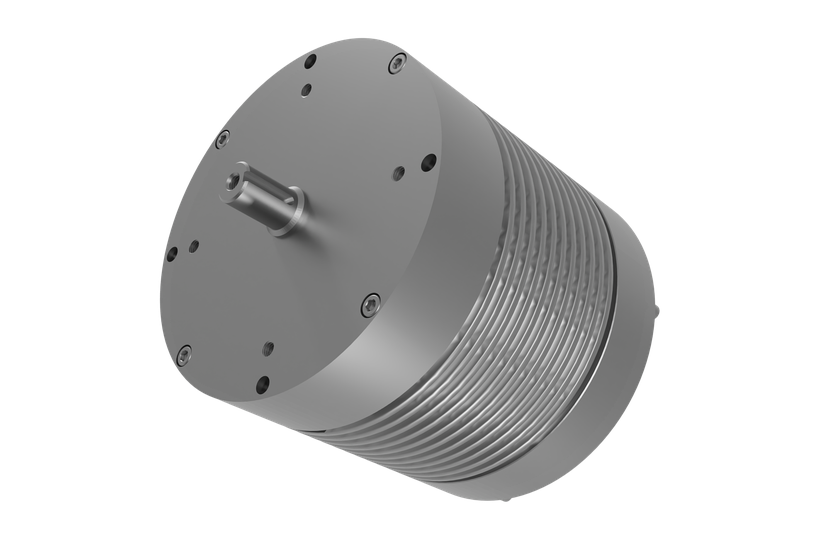
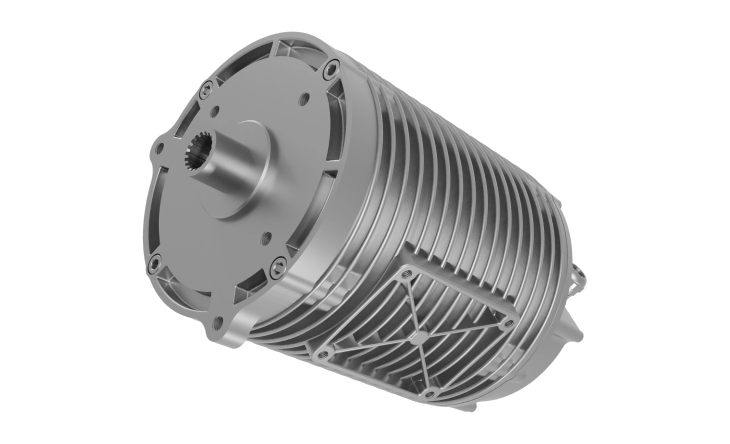
products: listing QA - RF66 card art, Series dropdown, titles, find-by-apps, copy
- RF 66 listing card now uses the finned-housing 'Final 1 2' render the artboard references
  (the listing differs from the detail page, which uses the squat render - logged for Tushar).
- Series filter: added the 'Series' dropdown top-right with the RF/AF/PT radios on the row below
  it (was radios only, on the heading row).
- Card titles match the listing artboard: 'Antarix AF58' and 'PT 500' via a per-family cardName
  (detail pages keep 'Antarix AF 58' / 'PT - 500') - spacing inconsistency logged for Tushar.
- Find By Applications: the selected app no longer repeats as a tile (it's only the big card), and
  the sweeper's Relevant Motors are ordered RF15/42 Steering, /Traction, RF22/42 Steering, /Traction.
- 'Need Help' body copy set to the Figma text via SpecForm's copy prop (component layout unchanged).

Changed region(s): [[0.1808, 0.0586, 0.8137, 0.9369], [0.3315, 0.2635, 0.3616, 0.2928]]

diff --git a/src/data/products/index.js b/src/data/products/index.js
@@ -40,8 +40,8 @@ export const productFamilies = [
   { slug: 'rf33', name: 'Antarix RF 33', series: 'RF', brand: 'Antarix', tagline: 'Compact | Efficient | Versatile', card: { image: L('card-standard.png') }, industries: ['cleaning', 'agriculture', '2-wheeler'], spec: { voltage: 72, power: 3.3, torque: 10.5 } },
   { slug: 'rf55', name: 'Antarix RF 55', series: 'RF', brand: 'Antarix', tagline: 'Compact | Efficient | Versatile', card: { image: L('card-standard.png') }, industries: ['2-wheeler', 'agriculture', '3-wheeler'], spec: { voltage: 72, power: 5.5, torque: 10.5 } },
   { slug: 'rf66', name: 'Antarix RF 66', series: 'RF', brand: 'Antarix', tagline: 'Compact | Efficient | Versatile', card: { image: L('card-rf66.png') }, industries: ['2-wheeler', 'agriculture', '3-wheeler'], spec: { voltage: 72, power: 14, torque: 16 } },
-  { slug: 'af58', name: 'Antarix AF 58', series: 'AF', brand: 'Antarix', tagline: 'Compact | Efficient | Versatile', card: { image: L('card-af58.png') }, industries: ['2-wheeler', '3-wheeler'], spec: { voltage: 72, power: 5.8, torque: 60 } },
-  { slug: 'pt500', name: 'PT - 500', series: 'PT', brand: 'PT', tagline: 'Compact | Efficient | Versatile', card: { image: L('card-pt500.png') }, industries: ['industrial-tools'], spec: { voltage: 18, power: 0.05, torque: 0.5 } },
+  { slug: 'af58', name: 'Antarix AF 58', cardName: 'Antarix AF58', series: 'AF', brand: 'Antarix', tagline: 'Compact | Efficient | Versatile', card: { image: L('card-af58.png') }, industries: ['2-wheeler', '3-wheeler'], spec: { voltage: 72, power: 5.8, torque: 60 } },
+  { slug: 'pt500', name: 'PT - 500', cardName: 'PT 500', series: 'PT', brand: 'PT', tagline: 'Compact | Efficient | Versatile', card: { image: L('card-pt500.png') }, industries: ['industrial-tools'], spec: { voltage: 18, power: 0.05, torque: 0.5 } },
 ]
 
 export const productBySlug = Object.fromEntries(productFamilies.map((f) => [f.slug, f]))

diff --git a/src/sections/products/MotorListing.jsx b/src/sections/products/MotorListing.jsx
@@ -111,6 +111,7 @@ function SeriesRadios({ value, onChange }) {
 
 export default function MotorListing() {
   const [series, setSeries] = useState(null)
+  const [seriesOpen, setSeriesOpen] = useState(true)
   const [ranges, setRanges] = useState(emptyRanges)
   const [checked, setChecked] = useState(() => new Set())
 
@@ -147,7 +148,21 @@ export default function MotorListing() {
         <FilterPanel ranges={ranges} setRanges={setRanges} checked={checked} toggleApp={toggleApp} clearAll={clearAll} />
 
         <div className="flex min-w-0 flex-1 flex-col items-stretch gap-24 xl:items-end">
-          <SeriesRadios value={series} onChange={setSeries} />
+          {/* Series dropdown (top-right) with the RF/AF/PT radios on the row below it, per the artboard. */}
+          <div className="flex w-full flex-col items-stretch gap-16 xl:items-end">
+            <button
+              type="button"
+              onClick={() => setSeriesOpen((o) => !o)}
+              aria-expanded={seriesOpen}
+              className="flex items-center justify-between gap-16 self-end rounded-[4px] border border-black/25 px-16 py-8 text-16 font-light xl:text-20"
+            >
+              Series
+              <svg viewBox="0 0 12 8" aria-hidden className={`w-12 transition-transform ${seriesOpen ? 'rotate-180' : ''}`}>
+                <path d="M1 1l5 5 5-5" fill="none" stroke="currentColor" strokeWidth="1.5" strokeLinecap="round" strokeLinejoin="round" />
+              </svg>
+            </button>
+            {seriesOpen && <SeriesRadios value={series} onChange={setSeries} />}
+          </div>
 
           {families.length ? (
             <div className="grid w-full grid-cols-1 gap-24 sm:grid-cols-2 xl:grid-cols-3 xl:gap-28">

diff --git a/src/sections/products/FindByApplications.jsx b/src/sections/products/FindByApplications.jsx
@@ -31,16 +31,14 @@ export default function FindByApplications() {
 
         {/* Thumbnails + relevant motors */}
         <div className="flex min-w-0 flex-1 flex-col gap-32 xl:gap-40">
+          {/* Tiles show the OTHER applications — the selected one appears only in the big card (per artboard). */}
           <div ref={track} className="no-scrollbar flex snap-x gap-16 overflow-x-auto pb-2 xl:gap-28">
-            {findByApplications.map((a, i) => (
+            {findByApplications.map((a, i) => ({ a, i })).filter(({ i }) => i !== active).map(({ a, i }) => (
               <button
                 key={a.key}
                 type="button"
                 onClick={() => setActive(i)}
-                aria-pressed={i === active}
-                className={`relative aspect-square w-150 shrink-0 snap-start overflow-hidden rounded-[4.8px] border bg-white transition-colors xl:w-240 ${
-                  i === active ? 'border-primary' : 'border-black/25 hover:border-primary/50'
-                }`}
+                className="relative aspect-square w-150 shrink-0 snap-start overflow-hidden rounded-[4.8px] border border-black/25 bg-white transition-colors hover:border-primary/50 xl:w-240"
               >
                 <img src={a.image} alt="" className="absolute inset-x-0 top-[14%] mx-auto h-[52%] object-contain" />
                 <span className="absolute bottom-14 left-14 text-14 capitalize text-grey xl:bottom-24 xl:left-19 xl:text-24">{a.name}</span>

diff --git a/src/data/products/applications.js b/src/data/products/applications.js
@@ -14,7 +14,7 @@ const motor = (code, use) => {
 }
 
 export const findByApplications = [
-  { key: 'ride-on-sweeper', name: 'Ride on Sweeper', industry: 'Cleaning', image: L('app-sweeper.png'), motors: [motor('RF 15/42', 'Steering'), motor('RF 22/42', 'Steering'), motor('RF 15/42', 'Traction'), motor('RF 22/42', 'Traction')] },
+  { key: 'ride-on-sweeper', name: 'Ride on Sweeper', industry: 'Cleaning', image: L('app-sweeper.png'), motors: [motor('RF 15/42', 'Steering'), motor('RF 15/42', 'Traction'), motor('RF 22/42', 'Steering'), motor('RF 22/42', 'Traction')] },
   { key: 'l5-cargo', name: 'L5 Cargo', industry: '3 Wheelers', image: L('app-l5cargo.png'), motors: [motor('RF 55/70', 'Traction'), motor('RF 66/70', 'Traction'), motor('RF 22/60', 'Steering')] },
   { key: 'agribot', name: 'Agribot', industry: 'Agriculture', image: L('app-agribot.png'), motors: [motor('RF 33/60', 'Traction'), motor('RF 55/70', 'Traction'), motor('RF 15/60', 'Steering')] },
   { key: '2-wheelers', name: '2 Wheelers', industry: '2 Wheelers', image: L('app-2wheeler.png'), motors: [motor('AF 58/40', 'Hub Drive'), motor('RF 15/42', 'Mid Drive'), motor('RF 22/42', 'Mid Drive')] },

diff --git a/src/sections/products/FamilyCard.jsx b/src/sections/products/FamilyCard.jsx
@@ -39,7 +39,7 @@ export default function FamilyCard({ family, className = 'w-full' }) {
       {/* Content */}
       <div className="flex flex-1 flex-col gap-8 p-[6.5%] pt-14 xl:gap-14 xl:pt-20">
         <div className="flex flex-col gap-2 xl:gap-3">
-          <span className="text-20 leading-none capitalize xl:text-40">{family.name}</span>
+          <span className="text-20 leading-none capitalize xl:text-40">{family.cardName ?? family.name}</span>
           <span className="text-11 font-light capitalize text-black xl:text-16">{family.tagline}</span>
         </div>
         <div className="flex flex-col gap-5 xl:gap-6">

diff --git a/src/pages/Products.jsx b/src/pages/Products.jsx
@@ -18,7 +18,7 @@ export default function Products() {
       <ProductsHero />
       <MotorListing />
       <FindByApplications />
-      <SpecForm applications={motorApplications} title={['Need Help', 'Finding The Right Motor?']} text="Share your application and duty cycle - we'll recommend the right motor and controller in 3 working days." />
+      <SpecForm applications={motorApplications} title={['Need Help', 'Finding The Right Motor?']} text="Our team can help you choose or customise a solution for your application." />
     </main>
   )
 }
